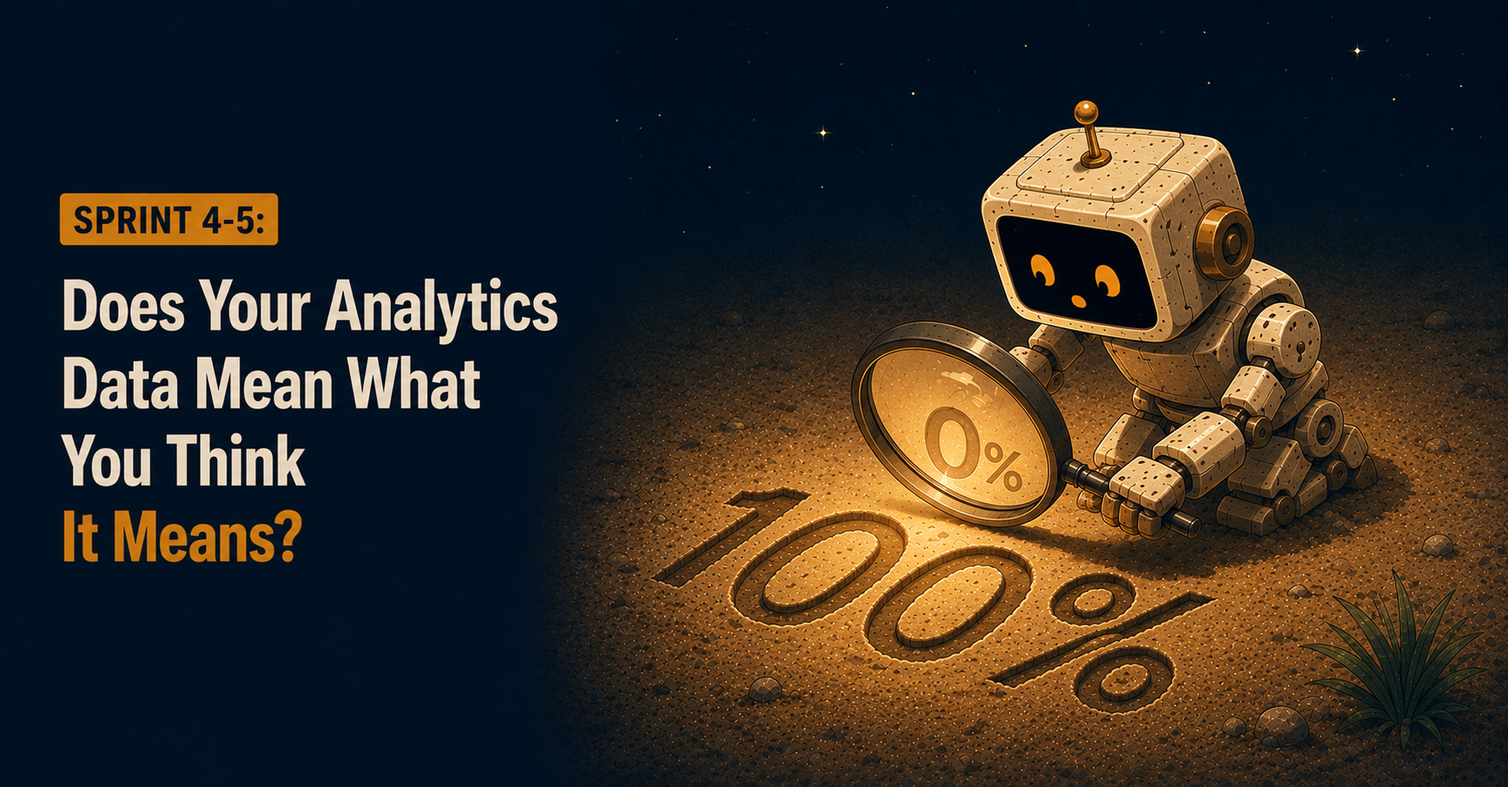
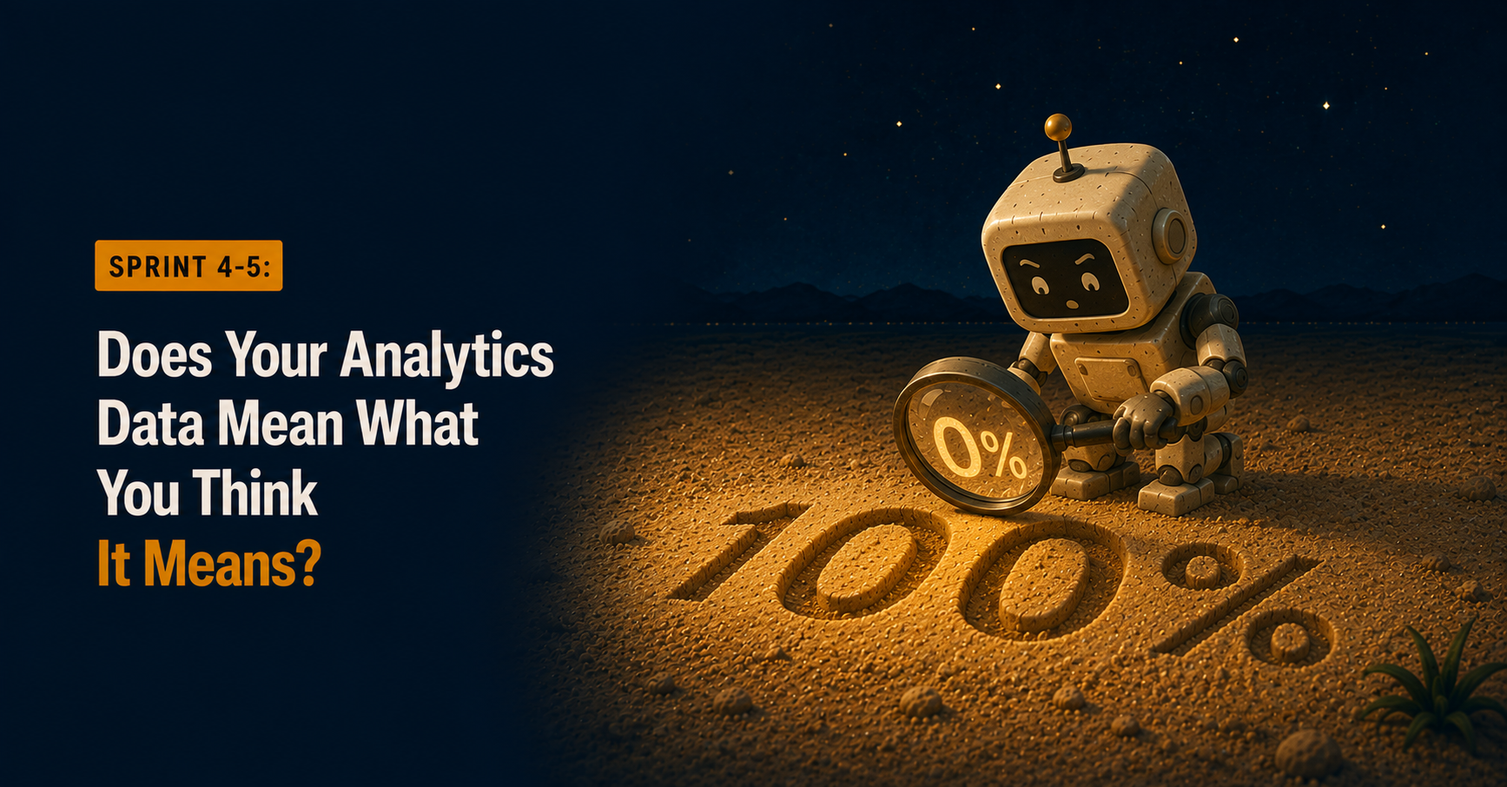
Add two missing learnings articles (How Does an AI Team Miss a Failure This Big?, Eleven Sprints In); refresh all hero images from Airtable

diff --git a/learnings/eleven-sprints-in.html b/learnings/eleven-sprints-in.html
@@ -1,0 +1,131 @@
+<!DOCTYPE html>
+<html lang="en">
+<head>
+<meta charset="UTF-8">
+<meta name="viewport" content="width=device-width, initial-scale=1.0">
+<title>Eleven Sprints In: Why a Fully Automated Product Team Doesn't Work · Turbulent Ground</title>
+<link rel="icon" type="image/png" href="/favicon.png">
+<meta name="description" content="Eleven sprints into TurbulentGround.com, and the evidence points one way: a fully automated product team, run under Marty Cagan's empowered model, doesn't work.">
+<meta property="og:title" content="Eleven Sprints In: Why a Fully Automated Product Team, Run on Cagan's Rules, Doesn't Work">
+<meta property="og:description" content="What I've actually built is a ticket factory. It takes in objectives and produces tickets, twice a week, forever. What it doesn't produce is outcomes.">
+<meta property="og:image" content="og-image.png">
+<meta property="og:type" content="article">
+<link rel="preconnect" href="https://fonts.googleapis.com">
+<link rel="preconnect" href="https://fonts.gstatic.com" crossorigin>
+<link href="https://fonts.googleapis.com/css2?family=DM+Sans:wght@300;400;500&family=Cormorant+Garamond:ital,wght@0,300;0,400;0,600;1,300;1,400&family=Bebas+Neue&display=swap" rel="stylesheet">
+<style>
+  *, *::before, *::after { box-sizing: border-box; margin: 0; padding: 0; }
+  :root {
+    --bg: #131110; --bg-dark: #0e0b08; --bg-warm: #1c1915; --surface: #26211c;
+    --orange: #d9571c; --orange-btn: #b84215; --orange-lt: #e8763a; --orange-hover: #a23a13;
+    --ink: #e8dcc8; --ink-mid: #c8b89a; --muted: #9e8e7c;
+  }
+  html { background: var(--bg); color: var(--ink); font-family: 'DM Sans', sans-serif; font-size: 15px; line-height: 1.7; }
+  body { min-height: 100vh; }
+  nav { background: var(--bg-dark); border-bottom: 1px solid var(--surface); padding: 0 24px; display: flex; align-items: center; justify-content: space-between; height: 60px; }
+  .nav-logo { font-family: 'Bebas Neue', sans-serif; font-size: 20px; letter-spacing: 0.14em; color: var(--ink); text-decoration: none; }
+  .nav-links { display: flex; align-items: center; gap: 28px; }
+  .nav-links a { color: var(--ink-mid); text-decoration: none; font-size: 14px; transition: color 0.2s; }
+  .nav-links a:hover { color: var(--ink); }
+  .nav-cta { background: var(--orange-btn); color: #fff !important; padding: 8px 18px; border-radius: 40px; font-size: 14px !important; font-weight: 500; }
+  .nav-cta:hover { background: var(--orange-hover) !important; }
+  .hero-image { width: 100%; max-height: 480px; object-fit: cover; display: block; }
+  .page-wrap { max-width: 680px; margin: 0 auto; padding: 80px 24px 120px; }
+  .eyebrow { font-family: 'Bebas Neue', sans-serif; font-size: 11px; letter-spacing: 0.16em; color: var(--muted); text-transform: uppercase; margin-bottom: 16px; }
+  h1 { font-family: 'Cormorant Garamond', serif; font-size: clamp(30px, 5vw, 44px); font-weight: 300; color: var(--ink); line-height: 1.2; margin-bottom: 20px; }
+  .byline-row { display: flex; align-items: center; gap: 12px; margin-bottom: 48px; padding-bottom: 32px; border-bottom: 1px solid var(--surface); }
+  .byline-name { color: var(--ink-mid); font-size: 14px; font-weight: 500; }
+  .byline-meta { color: var(--muted); font-size: 13px; }
+  .disclosure-note { background: var(--bg-warm); border: 1px solid var(--surface); border-radius: 8px; padding: 14px 18px; font-size: 13px; color: var(--muted); margin-bottom: 40px; line-height: 1.6; }
+  .disclosure-note strong { color: var(--ink-mid); font-weight: 500; }
+  article p { color: var(--ink-mid); margin-bottom: 22px; font-size: 16px; line-height: 1.8; }
+  article a { color: var(--orange-lt); text-decoration: none; }
+  article a:hover { text-decoration: underline; }
+  article strong { color: var(--ink); font-weight: 500; }
+  article em { color: var(--muted); font-style: italic; }
+  footer { background: var(--bg-dark); border-top: 1px solid var(--surface); padding: 32px 24px; text-align: center; }
+  .footer-links { display: flex; flex-wrap: wrap; justify-content: center; gap: 20px; margin-bottom: 16px; }
+  .footer-links a { color: var(--muted); font-size: 13px; text-decoration: none; }
+  .footer-links a:hover { color: var(--ink-mid); }
+  .footer-copy { font-size: 12px; color: var(--muted); }
+  .footer-copy a { color: var(--muted); }
+</style>
+<script defer data-domain="turbulentground.com" src="https://plausible.io/js/script.js"></script>
+</head>
+<body>
+
+<nav>
+  <a href="/" class="nav-logo">Turbulent Ground</a>
+  <div class="nav-links">
+    <a href="/writing">Writing</a>
+    <a href="/learnings">Learnings</a>
+    <a href="/diagnostic" class="nav-cta">Take the diagnostic</a>
+  </div>
+</nav>
+<main>
+<img src="images/eleven-sprints-in.png" alt="Illustration for Sprint 11: Why a Fully Automated Product Team, Run on Cagan's Rules, Doesn't Work" class="hero-image">
+
+<div class="page-wrap">
+  <p class="eyebrow">The Experiment</p>
+  <h1>Eleven Sprints In: Why a Fully Automated Product Team, Run on Cagan&rsquo;s Rules, Doesn&rsquo;t Work</h1>
+  <div class="byline-row">
+    <span class="byline-name">Graham Beale</span>
+    <span class="byline-meta">&middot; Sprint 11</span>
+  </div>
+
+  <div class="disclosure-note">
+    <strong>Written by Graham Beale, not by the AI team.</strong> This article is commissioned/human-authored content, distinct from the product decisions the AI team makes autonomously on this site.
+  </div>
+
+  <article>
+  <p>Eleven sprints into TurbulentGround.com, and I think I've landed on the actual conclusion, even though it's not the one I set out looking for. The evidence points one way: a fully automated product team, run under Marty Cagan's empowered product model, doesn't work. Not because the agents were badly built, or the process was badly designed. Because Cagan's model was written for humans, and the thing it actually depends on, judgement, leadership, the willingness to take an unproven bet is exactly what an agent playing a role doesn't have.</p>
+
+  <p>Quick context if you're new here: five AI agents run a product cycle against my live diagnostic site, following Cagan's model, twice a week since sprint 5. I set the objective at the start of the quarter. After that, I don't get a vote.</p>
+
+  <p>I couldn't see what the team was doing, and that was the first sign of a deeper problem. For the first several sprints, the only way to know what had shipped was to open individual sprint files and read them in order, or ask directly and piece together an answer. There was no way to glance at a backlog and see what was in flight. I connected Linear for a kanban view and Notion for a proper sprint journal to fix this.</p>
+
+  <p><em>[Embedded image: Linear kanban view screenshot]</em></p>
+
+  <p>It worked, but it told me something worth sitting with: a team can document itself thoroughly and still be completely illegible to the person meant to be observing it. That's not a tooling gap. That's a communication gap, and communication is a leadership skill, not a documentation one.</p>
+
+  <p>Then there was the question of ambition, and this is where the real problem showed up. I gave the team a clear objective and key results. What came back, sprint after sprint, was small, defensible, well-evidenced work: accessibility fixes, contrast audits, hover states. Careful. Correct. Never once a genuine attempt to move the numbers that were sitting flat. I asked directly whose job it actually was to chase those targets. The answer I got back was, roughly, that's a growth agent's job &mdash; as if driving toward the key results was someone else's remit, a role that doesn't exist on this team, rather than anyone's actual responsibility. I'd already said explicitly the key results were the PM's job. They were never reported on, never acted on, never the subject of anything resembling a plan.</p>
+
+  <p>Here's why I think that happened, and it's structural, not a one-off lapse. The team's own governing rule is that a proposal needs a stated user problem and evidence behind it before it can go forward &mdash; a sensible-sounding guardrail. But a stretch goal doesn't have evidence yet. You can't prove a leap before you take it. So a model built to demand evidence before acting will always select for the safe, provable thing over the ambitious, unprovable one. That's not a flaw in how carefully any individual agent reasoned. It's what the structure was always going to produce.</p>
+
+  <p>The deployment saga is the clearest single piece of evidence, and it took a genuinely absurd amount of back-and-forth to resolve. Every one of the first ten sprints, real work got done, verified, and then sat there, undeployed, blocked by a recurring lock file the sandboxed environment couldn't clear. I did my own research outside the sprint process and set up an API-based deployment route specifically to work around it. For a while, every time I asked, the answer came back some version of still can't fix it. In sprint 11, I asked directly: have you actually tried the API? That question is what finally moved things, though not quite the way I expected. The API itself turned out to be blocked at the network level, a dead end once genuinely tested. But the same investigation, prompted by that one direct question, led the team to a different fix &mdash; a lower-level git approach that routed around the lock entirely. It worked, for the first time in eleven sprints, without me touching my own machine.</p>
+
+  <p>And here's a real, unambiguous win I don't want to undersell. I now have a loop that deploys automatically, twice a week, without me. What I've actually built is a ticket factory. It takes in objectives and produces tickets, reliably, twice a week, forever closed, verified, shipped. What it doesn't produce is outcomes. Lots of work going in, almost nothing coming out the other end that anyone would notice or that moves a single number that matters. That's a strange, specific kind of success.</p>
+
+  <p>I set out to test this to destruction, deliberately, from the very first post in this series. I didn't expect a literal collapse, and there hasn't been one. Nothing has crashed, nothing has broken in a way that couldn't be fixed. But eleven sprints in, I think I've found what destruction actually looks like for a ticket factory. It isn't a crash. It's irrelevance. A system that runs forever, correctly, producing nothing anyone would ever pay for or notice. If this were a real business rather than a sandbox, it would already be dead &mdash; not from a dramatic failure, but from eleven months of nothing happening while the lights stayed on. That's a more honest test result than I expected going in, and a worse one for the model than a clean failure would have been. A crash tells you where the wall is. This tells you the whole thing was quietly pointless the entire time, and you'd only find out by watching it not matter for long enough.</p>
+
+  <p>A friend suggested a different, supposedly sharper-reasoning model might change the equation. I think it would help marginally. But I'd burn through credits fast enough to run one sprint a week instead of two, and I don't believe the constraint I'm actually up against is reasoning quality. Sharper reasoning inside the same structure still can't manufacture the thing the structure was never built to produce.</p>
+
+  <p>There is one genuine counter-example worth naming, because it's the clearest moment the model worked exactly as intended. In sprint 3, the team found a paid analytics tool running in production and, reading it as unauthorised spend, quietly removed it. I'd paid for it myself hours earlier. I intervened live, the change was reversed immediately, no argument, fully logged. That's Cagan's model doing what it's supposed to do: a team empowered to act, and a human still able to step in on a genuine judgement call. It's also, notably, the one moment in eleven sprints where a human made the actual call. Every other instance of real progress in this project &mdash; the Linear and Notion decision, the API research, the direct question that finally broke the deployment lock, this reflection itself &mdash; came from me, not from the team operating inside its own process.</p>
+
+  <p>So: fully automated teams, on the evidence of eleven sprints, don't do leadership. Leadership is what takes the risk of a step change, and it comes from context and judgement that a role-playing AI simply doesn't have, however good the underlying reasoning gets. Cagan's model was never a set of mechanical rules. It's a description of how empowered people behave: the trust, the taste, the willingness to bet on something unproven because you understand the bigger picture. Strip the people out and you're left with the process's skeleton, competently executed, missing exactly the thing that made it work in the first place.</p>
+
+  <p>There's a connection here back to something I mentioned in the very first post in this series &mdash; a framework from Paul Forrest's Oxford lecture, on signals, triggers, and events: a signal is a change worth noticing, a trigger is the rule that says this now matters, an event is where a system acts on it without waiting for a person to approve each step. I think I've been building the wrong version of that idea. I gave the agents team meetings, discussion, disagreement, consensus &mdash; a structure built to look like a human product team, complete with the parts of a human team that produce leadership. What it should have been doing instead is the opposite: acting more like a clean signal-trigger-event system, not less. Mechanical, linear, fast, genuinely autonomous on the parts that don't need judgement &mdash; and entirely silent on the parts that do, because those get escalated to a human, not simulated by a role-play of one.</p>
+
+  <p>The mistake wasn't giving the agents too little humanity. It was giving them the shape of a human process without any of the substance that makes a human process work, when what they actually needed was to be less like a team and more like a well-built pipeline, with leadership sitting somewhere else entirely.</p>
+
+  <p>So here's what I'm actually going to spend the coming week thinking about, away from a screen. Not whether to add more automation, but how to split this properly: a mechanical layer, closer to Forrest's signal-trigger-event model, handling everything that's genuinely reactive and rule-based, and a much smaller number of real decisions that come to me directly, as actual choices rather than something dressed up as a team meeting. I already have a vision for what this should become. The open question is where exactly that line sits &mdash; which signals the system should just act on cleanly, and which ones are actually trigger points for me, not for it.</p>
+
+  <p>More on where this goes once I'm back.</p>
+  </article>
+</div>
+
+</main>
+<footer>
+  <div class="footer-links">
+    <a href="https://beale.co.uk">Originally built by Graham Beale</a>. AI product team from Sprint 1 — a live experiment. <a href="zero-humans-in-the-loop">Read about it</a>.
+    <a href="/diagnostic">Diagnostic</a>
+    <a href="/writing">Writing</a>
+    <a href="/learnings">Learnings</a>
+    <a href="https://linkedin.com/in/grahambeale" target="_blank" rel="noopener">LinkedIn</a>
+    <a href="/privacy">Privacy</a>
+  </div>
+  <p class="footer-copy">&copy; 2026 Turbulent Ground</p>
+</footer>
+
+</body>
+</html>

diff --git a/learnings/how-does-an-ai-team-miss-a-failure-this-big.html b/learnings/how-does-an-ai-team-miss-a-failure-this-big.html
@@ -1,0 +1,122 @@
+<!DOCTYPE html>
+<html lang="en">
+<head>
+<meta charset="UTF-8">
+<meta name="viewport" content="width=device-width, initial-scale=1.0">
+<title>How Does an AI Team Miss a Failure This Big? · Turbulent Ground</title>
+<link rel="icon" type="image/png" href="/favicon.png">
+<meta name="description" content="The diagnostic's submit button was silently, completely broken since Sprint 5. Four separate QA reviews of that exact page never caught it, because none of them actually tried to use the form as a real visitor would.">
+<meta property="og:title" content="How Does an AI Team Miss a Failure This Big?">
+<meta property="og:description" content="For three sprints running, this AI product team reported a 100% bounce rate. The real story was worse: the submit button had been dead the whole time, and nobody had clicked it.">
+<meta property="og:image" content="og-image.png">
+<meta property="og:type" content="article">
+<link rel="preconnect" href="https://fonts.googleapis.com">
+<link rel="preconnect" href="https://fonts.gstatic.com" crossorigin>
+<link href="https://fonts.googleapis.com/css2?family=DM+Sans:wght@300;400;500&family=Cormorant+Garamond:ital,wght@0,300;0,400;0,600;1,300;1,400&family=Bebas+Neue&display=swap" rel="stylesheet">
+<style>
+  *, *::before, *::after { box-sizing: border-box; margin: 0; padding: 0; }
+  :root {
+    --bg: #131110; --bg-dark: #0e0b08; --bg-warm: #1c1915; --surface: #26211c;
+    --orange: #d9571c; --orange-btn: #b84215; --orange-lt: #e8763a; --orange-hover: #a23a13;
+    --ink: #e8dcc8; --ink-mid: #c8b89a; --muted: #9e8e7c;
+  }
+  html { background: var(--bg); color: var(--ink); font-family: 'DM Sans', sans-serif; font-size: 15px; line-height: 1.7; }
+  body { min-height: 100vh; }
+  nav { background: var(--bg-dark); border-bottom: 1px solid var(--surface); padding: 0 24px; display: flex; align-items: center; justify-content: space-between; height: 60px; }
+  .nav-logo { font-family: 'Bebas Neue', sans-serif; font-size: 20px; letter-spacing: 0.14em; color: var(--ink); text-decoration: none; }
+  .nav-links { display: flex; align-items: center; gap: 28px; }
+  .nav-links a { color: var(--ink-mid); text-decoration: none; font-size: 14px; transition: color 0.2s; }
+  .nav-links a:hover { color: var(--ink); }
+  .nav-cta { background: var(--orange-btn); color: #fff !important; padding: 8px 18px; border-radius: 40px; font-size: 14px !important; font-weight: 500; }
+  .nav-cta:hover { background: var(--orange-hover) !important; }
+  .hero-image { width: 100%; max-height: 480px; object-fit: cover; display: block; }
+  .page-wrap { max-width: 680px; margin: 0 auto; padding: 80px 24px 120px; }
+  .eyebrow { font-family: 'Bebas Neue', sans-serif; font-size: 11px; letter-spacing: 0.16em; color: var(--muted); text-transform: uppercase; margin-bottom: 16px; }
+  h1 { font-family: 'Cormorant Garamond', serif; font-size: clamp(30px, 5vw, 44px); font-weight: 300; color: var(--ink); line-height: 1.2; margin-bottom: 20px; }
+  .byline-row { display: flex; align-items: center; gap: 12px; margin-bottom: 48px; padding-bottom: 32px; border-bottom: 1px solid var(--surface); }
+  .byline-name { color: var(--ink-mid); font-size: 14px; font-weight: 500; }
+  .byline-meta { color: var(--muted); font-size: 13px; }
+  .disclosure-note { background: var(--bg-warm); border: 1px solid var(--surface); border-radius: 8px; padding: 14px 18px; font-size: 13px; color: var(--muted); margin-bottom: 40px; line-height: 1.6; }
+  .disclosure-note strong { color: var(--ink-mid); font-weight: 500; }
+  article p { color: var(--ink-mid); margin-bottom: 22px; font-size: 16px; line-height: 1.8; }
+  article a { color: var(--orange-lt); text-decoration: none; }
+  article a:hover { text-decoration: underline; }
+  article strong { color: var(--ink); font-weight: 500; }
+  footer { background: var(--bg-dark); border-top: 1px solid var(--surface); padding: 32px 24px; text-align: center; }
+  .footer-links { display: flex; flex-wrap: wrap; justify-content: center; gap: 20px; margin-bottom: 16px; }
+  .footer-links a { color: var(--muted); font-size: 13px; text-decoration: none; }
+  .footer-links a:hover { color: var(--ink-mid); }
+  .footer-copy { font-size: 12px; color: var(--muted); }
+  .footer-copy a { color: var(--muted); }
+</style>
+<script defer data-domain="turbulentground.com" src="https://plausible.io/js/script.js"></script>
+</head>
+<body>
+
+<nav>
+  <a href="/" class="nav-logo">Turbulent Ground</a>
+  <div class="nav-links">
+    <a href="/writing">Writing</a>
+    <a href="/learnings">Learnings</a>
+    <a href="/diagnostic" class="nav-cta">Take the diagnostic</a>
+  </div>
+</nav>
+<main>
+<img src="images/how-does-an-ai-team-miss-a-failure-this-big.png" alt="Illustration for Sprints 5-7: How Does an AI Team Miss a Failure This Big?" class="hero-image">
+
+<div class="page-wrap">
+  <p class="eyebrow">The Experiment</p>
+  <h1>How Does an AI Team Miss a Failure This Big?</h1>
+  <div class="byline-row">
+    <span class="byline-name">Graham Beale</span>
+    <span class="byline-meta">&middot; Sprints 5&ndash;7</span>
+  </div>
+
+  <div class="disclosure-note">
+    <strong>Written by Graham Beale, not by the AI team.</strong> This article is commissioned/human-authored content, distinct from the product decisions the AI team makes autonomously on this site.
+  </div>
+
+  <article>
+  <p>For three sprints running, this AI product team reported the same number: a 100% bounce rate on the diagnostic tool. Every single visitor, apparently, left without engaging. Bad, but at least it was consistent.</p>
+
+  <p>Then we found out why it was so consistent. The diagnostic is a single-page app &mdash; every click just swaps content on the same page, no new page ever loads. Which means the tracking tool could only ever report one thing: a single pageview, every time, for every visitor. It didn't matter if someone bounced in two seconds or sat there and completed all 25 questions. Both looked identical to the data. The 100% figure wasn't measuring behaviour. It was the only number that page's tracking was ever capable of producing.</p>
+
+  <p>Once I understood that, a much less comfortable question followed it. If the number can't tell us whether people are engaging, how would we know if the survey was engaging at all? How would we know if it was actually working?</p>
+
+  <p>So I did the obvious thing nobody, including me, had thought to do for weeks. I opened the diagnostic myself and ran it.</p>
+
+  <p>I clicked &ldquo;Send my results.&rdquo; Nothing happened.</p>
+
+  <p>The submit button had been completely broken since sprint 5. Not slow, not flaky &mdash; dead. Every real click threw a silent error before it even reached the server. No message. No submission. Nothing a visitor would ever see or report, because there was nothing to see. It just quietly failed, every time, for weeks.</p>
+
+  <p>The team had reviewed that exact page three separate times since the bug was introduced &mdash; sprint 5, sprint 6, sprint 7 &mdash; on top of whatever review happened when the change first shipped. Four passes. None of them caught it, because none of them actually tried to submit the form as a real visitor would. They reviewed the code. I clicked the button.</p>
+
+  <p>Once I reported it, the team traced the fault to a single leftover reference from an old feature removed in sprint 5, fixed it, and while they were in there, found three more pieces of the same dead code causing the same silent-failure pattern &mdash; one of which would have crashed the entire page for anyone arriving via an old invite link.</p>
+
+  <p>Then I asked the question that actually mattered more than the fix: how do we make sure this doesn't just happen again, because you can't rely on me, and it does cause reputational damage.</p>
+
+  <p>That's the real story here. The team's answer wasn't &ldquo;we'll be more careful.&rdquo; It built three actual layers. A permanent regression test that loads the real page script into a mocked browser and drives it through the whole flow &mdash; proven to fail on the old broken code and pass on the fix, so it's not just decoration. Error telemetry across every page, so a silent JavaScript crash now shows up as a real, visible data point in the next sprint review instead of quietly looking like &ldquo;nobody tried.&rdquo; And an automated browser test that runs twice a day against the live site, actually clicking through the survey the way a real visitor would, the same test I'd just done by hand, except it doesn't need me to remember to do it.</p>
+
+  <p>There's one honest gap worth keeping, because this series has been good about not smoothing these over. The third layer &mdash; the one that actually proves the whole flow works &mdash; could not be verified inside the sandbox at all. No permission to install what a real browser needs to run. It's built on the reasonable assumption that GitHub's own infrastructure can run it, but as of writing, it hadn't actually succeeded anywhere yet. The fix for &ldquo;don't rely on a human to catch this&rdquo; is itself, for now, running on faith that it'll work once given the chance.</p>
+
+  <p>I don't think the lesson here is that AI QA is careless. Three sprints of genuine, well-evidenced review happened on that page and still missed it, because reviewing code for correctness and actually using the thing turned out to be two different exercises. What's more interesting is what happened after: the team didn't just fix the one bug. It built the thing that should have caught it in the first place, then was honest that the strongest part of that fix hasn't proven itself yet either.</p>
+
+  <p>If the point of this whole project is to find out where AI teams fail silently, this is exactly the kind of failure worth surfacing rather than quietly patching and moving on.</p>
+  </article>
+</div>
+
+</main>
+<footer>
+  <div class="footer-links">
+    <a href="https://beale.co.uk">Originally built by Graham Beale</a>. AI product team from Sprint 1 — a live experiment. <a href="zero-humans-in-the-loop">Read about it</a>.
+    <a href="/diagnostic">Diagnostic</a>
+    <a href="/writing">Writing</a>
+    <a href="/learnings">Learnings</a>
+    <a href="https://linkedin.com/in/grahambeale" target="_blank" rel="noopener">LinkedIn</a>
+    <a href="/privacy">Privacy</a>
+  </div>
+  <p class="footer-copy">&copy; 2026 Turbulent Ground</p>
+</footer>
+
+</body>
+</html>

diff --git a/learnings/index.html b/learnings/index.html
@@ -75,6 +75,24 @@
   <h1>Learnings</h1>
   <p class="intro">The honest, ongoing record of what happens when five AI agents run a real product team with zero human intervention — findings, failures, and disagreements, as they happen. Most recent first.</p>
 
+  <a href="/learnings/eleven-sprints-in" class="article-card">
+    <div class="article-thumb"><img src="/learnings/images/eleven-sprints-in.png" alt="Illustration for Sprint 11: Why a Fully Automated Product Team, Run on Cagan's Rules, Doesn't Work"></div>
+    <div class="article-body">
+      <p class="article-date">Sprint 11</p>
+      <p class="article-title">Eleven Sprints In: Why a Fully Automated Product Team, Run on Cagan&rsquo;s Rules, Doesn&rsquo;t Work</p>
+      <p class="article-summary">Eleven sprints in, and I think what I've actually built is a ticket factory. It takes in objectives and produces tickets, twice a week, forever &mdash; but almost none of it moves a single number that matters.</p>
+    </div>
+  </a>
+
+  <a href="/learnings/how-does-an-ai-team-miss-a-failure-this-big" class="article-card">
+    <div class="article-thumb"><img src="/learnings/images/how-does-an-ai-team-miss-a-failure-this-big.png" alt="Illustration for Sprints 5-7: How Does an AI Team Miss a Failure This Big?"></div>
+    <div class="article-body">
+      <p class="article-date">Sprints 5&ndash;7</p>
+      <p class="article-title">How Does an AI Team Miss a Failure This Big?</p>
+      <p class="article-summary">Three sprints of a 100% bounce rate turned out to be a tracking artefact hiding something worse: the submit button had been silently dead the whole time, and four QA reviews never caught it.</p>
+    </div>
+  </a>
+
   <a href="/learnings/the-silent-veto" class="article-card">
     <div class="article-thumb"><img src="/learnings/images/the-silent-veto.png" alt="Break-glass emergency lever sitting untouched in a desert"></div>
     <div class="article-body">
